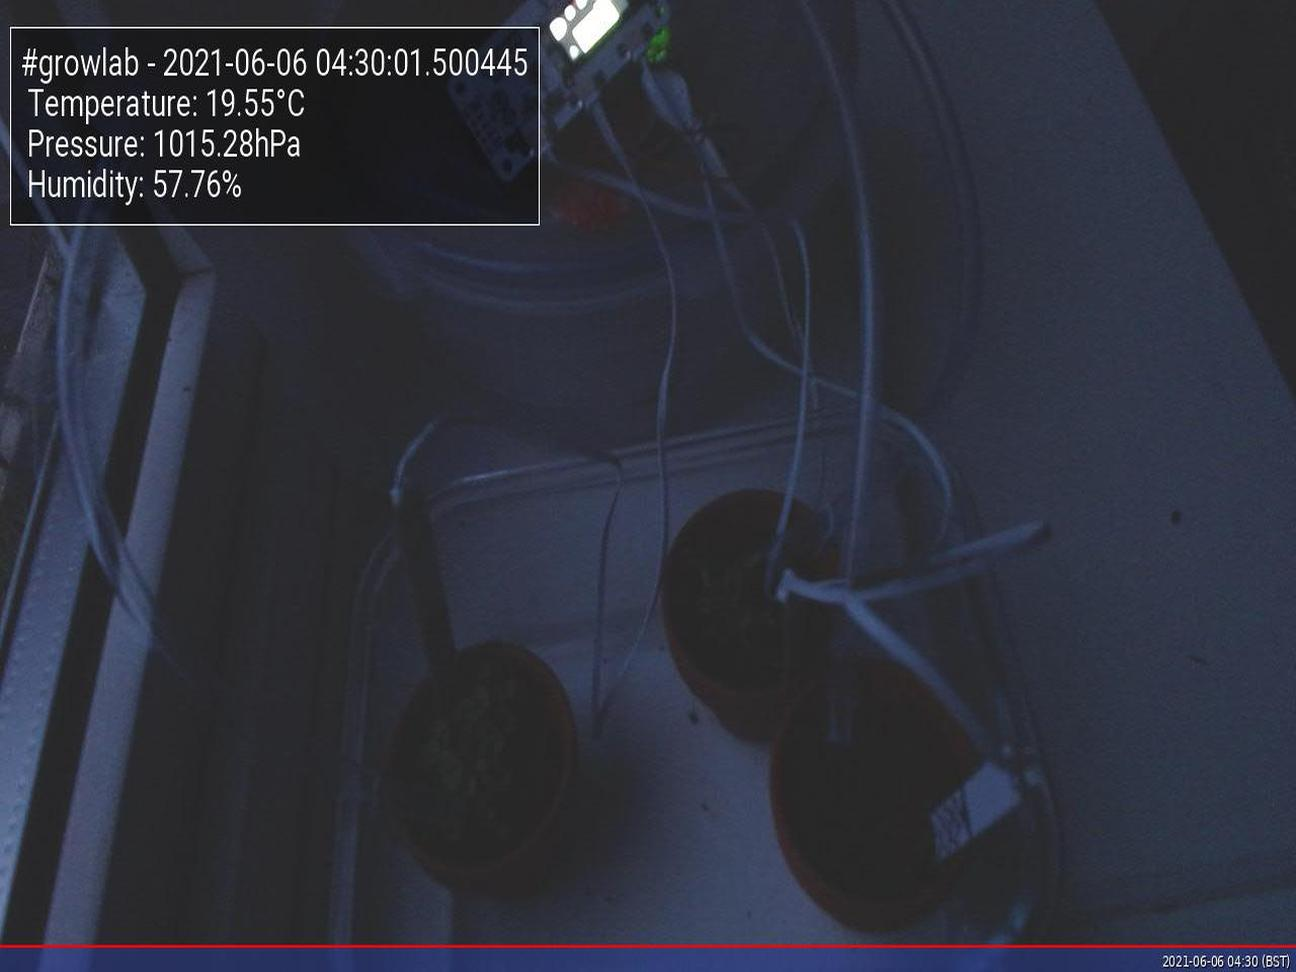
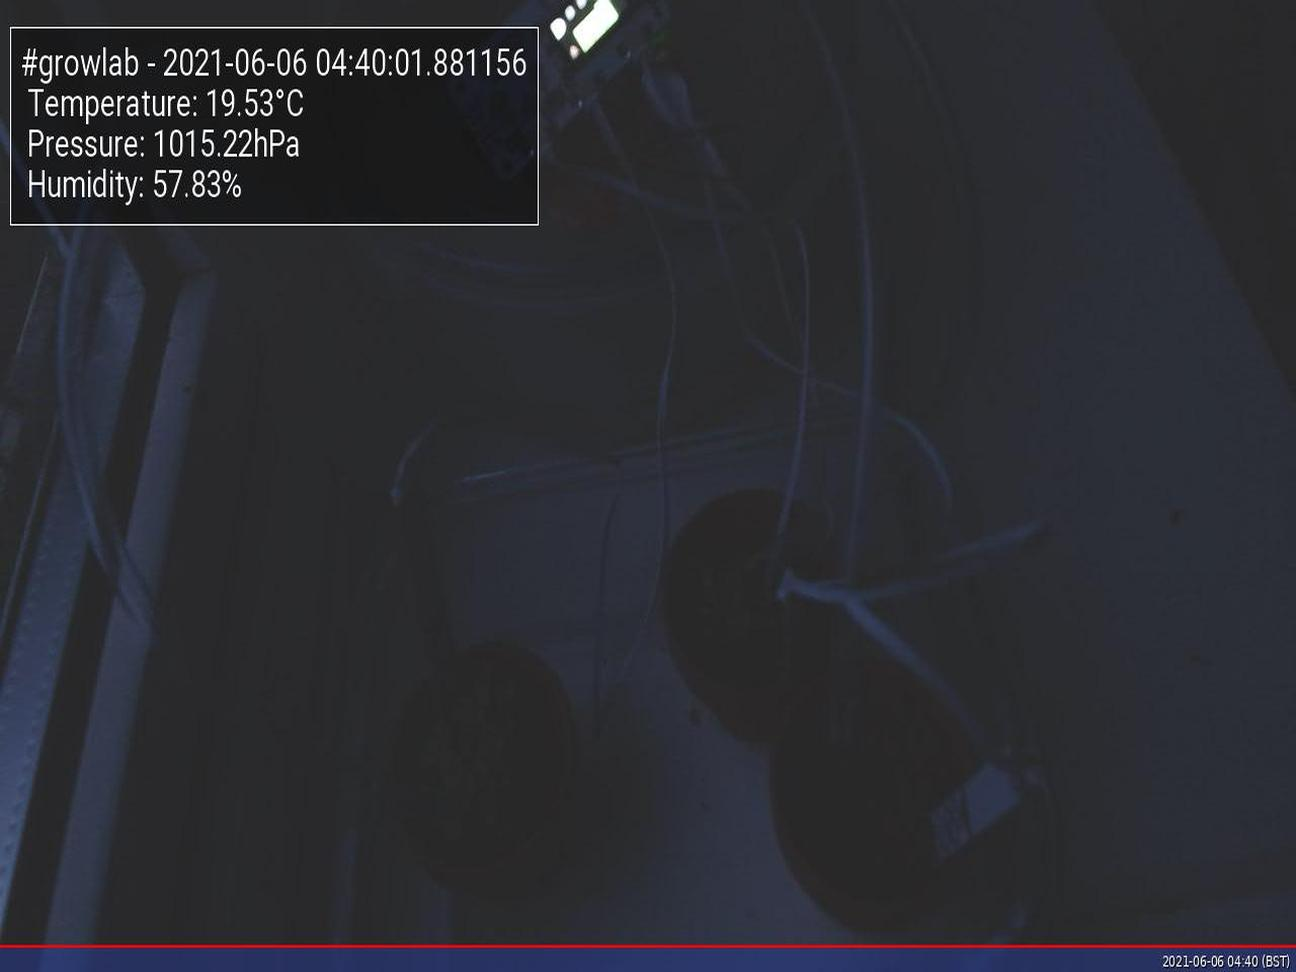
Update images at Sun  6 Jun 04:40:05 BST 2021

diff --git a/app/docs/index.html b/app/docs/index.html
@@ -47,19 +47,19 @@
                         <tbody>
                             <tr>
                                 <td>Time</td>
-                                <td>2021-06-06 04:30:01.500445</td>
+                                <td>2021-06-06 04:40:01.881156</td>
                             </tr>
                             <tr>
                                 <td>Temperature</td>
-                                <td>19.55°C</td>
+                                <td>19.53°C</td>
                             </tr>
                             <tr>
                                 <td>Humidity</td>
-                                <td>57.76%</td>
+                                <td>57.83%</td>
                             </tr>
                             <tr>
                                 <td>Pressure</td>
-                                <td>1015.28hPa</td>
+                                <td>1015.22hPa</td>
                             </tr>
                         </tbody>
                     </table>
@@ -67,7 +67,7 @@
 
                 <h5>Latest image</h5>
                 <div style="width: 85%;">
-                            <img class="figure-img img-fluid rounded" src="./preview.jpg?uid=1622950205.2562654">
+                            <img class="figure-img img-fluid rounded" src="./preview.jpg?uid=1622950805.6577303">
                 </div>
             </div>
         </div>
